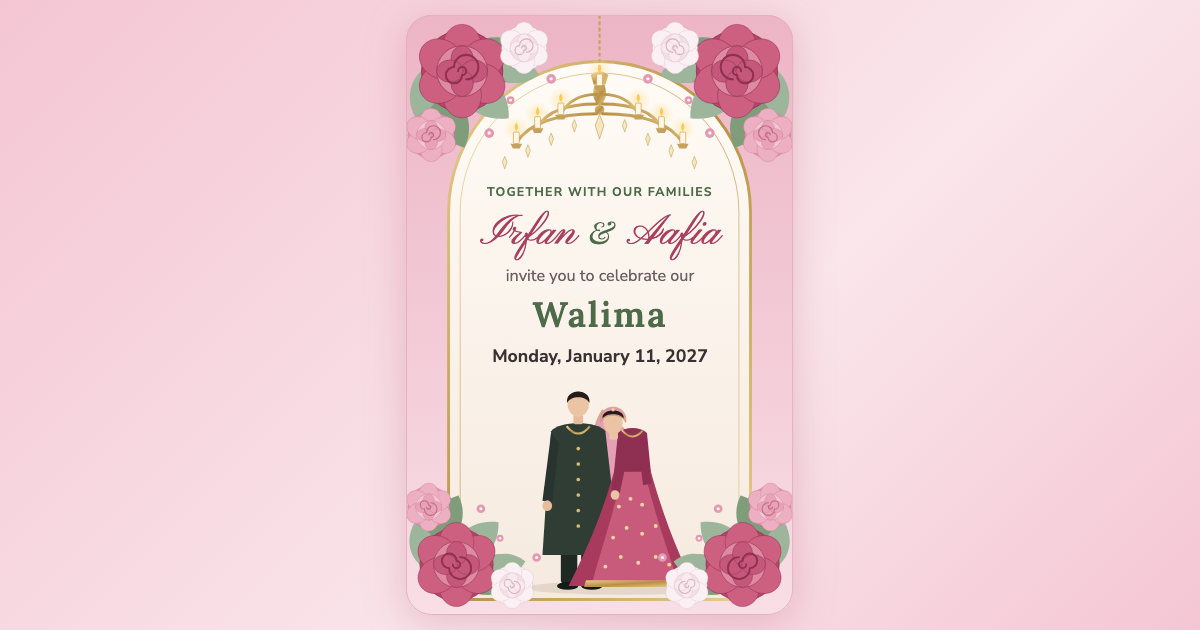
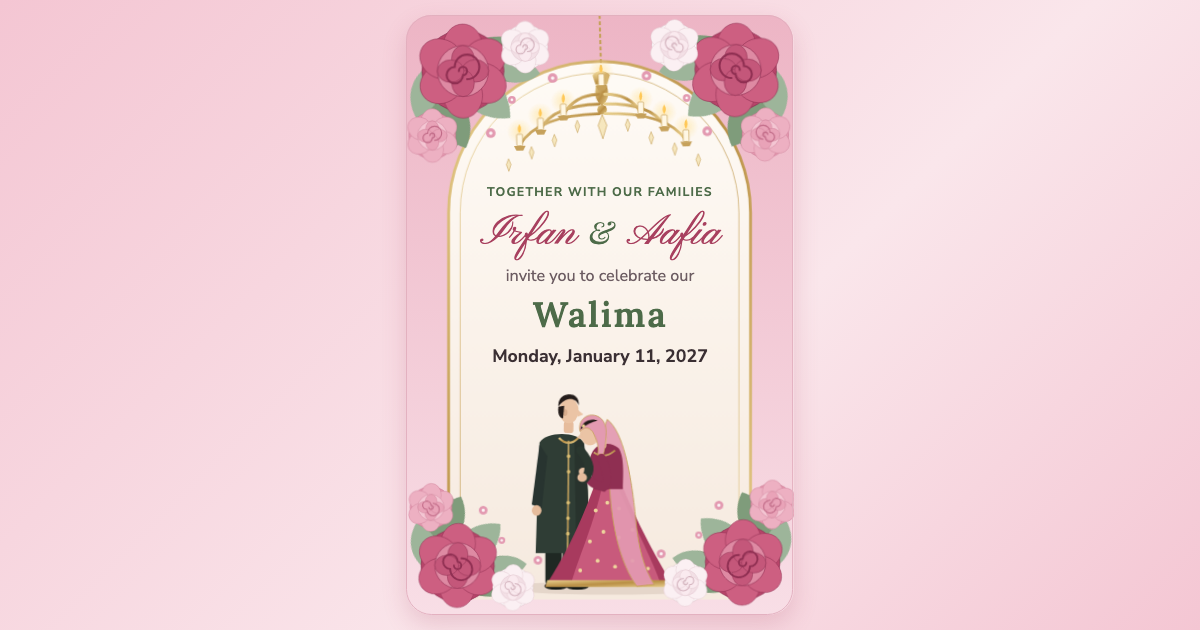
Couple pose and lighter animation

Changed region(s): [[0.3392, 0.6032, 0.6783, 0.9651], [0.3392, 0.0302, 0.6783, 0.2714], [0.4317, 0.4825, 0.555, 0.5127]]

diff --git a/index.html b/index.html
@@ -18,7 +18,7 @@
   <link rel="preconnect" href="https://fonts.googleapis.com">
   <link rel="preconnect" href="https://fonts.gstatic.com" crossorigin>
   <link href="https://fonts.googleapis.com/css2?family=Lora:wght@500;600&family=Nunito+Sans:wght@400;600;700&family=Pinyon+Script&family=Playfair+Display:ital@1&display=swap" rel="stylesheet">
-  <link rel="stylesheet" href="style.css?v=3">
+  <link rel="stylesheet" href="style.css?v=4">
 </head>
 <body>
   <header class="hero">
@@ -121,50 +121,56 @@
 <path class="crystal" d="M74 134 l-2.4 6 l2.4 7 l2.4 -7z" fill="#F6E7BE" stroke="#C6A15B" stroke-width=".6" style="--d:2.02s"/>
 <path class="crystal" d="M98 146 l-2.4 6 l2.4 7 l2.4 -7z" fill="#F6E7BE" stroke="#C6A15B" stroke-width=".6" style="--d:1.73s"/>
 </g></g></g>
-<ellipse class="shadow-in" cx="226" cy="592" rx="104" ry="7" fill="#7A5A48" opacity=".14"/>
-<g class="couple-in"><g class="couple-breathe">
-  <g class="veil-sway"><path d="M203 408 C186 432 184 504 192 574 L216 566 C212 514 214 462 226 428Z" fill="#E39AB1" opacity=".92" stroke="#C6A15B" stroke-width="1"/></g>
+<ellipse class="shadow-in" cx="212" cy="592" rx="112" ry="7" fill="#7A5A48" opacity=".14"/>
+<g class="couple-in"><g transform="translate(-28 0)"><g class="couple-breathe">
   <g class="groom">
-    <rect x="160" y="545" width="17" height="42" rx="3" fill="#1F2823"/>
-    <rect x="181" y="545" width="17" height="42" rx="3" fill="#1F2823"/>
-    <ellipse cx="167" cy="590" rx="11" ry="4" fill="#141A17"/><ellipse cx="192" cy="590" rx="11" ry="4" fill="#141A17"/>
-    <path d="M150 430 C158 419 198 419 206 430 L212 482 L215 558 L141 558 L146 482Z" fill="#2F3D35"/>
-    <path d="M150 432 L141 502 L151 504 L158 442Z" fill="#283430"/>
-    <ellipse cx="146" cy="507" rx="5" ry="5.5" fill="#E6BC9C"/>
-    <line x1="178" y1="434" x2="178" y2="558" stroke="url(#goldG)" stroke-width="1.6"/>
-    <g fill="#D9BC72"><circle cx="178" cy="448" r="1.9"/><circle cx="178" cy="464" r="1.9"/><circle cx="178" cy="480" r="1.9"/><circle cx="178" cy="496" r="1.9"/><circle cx="178" cy="512" r="1.9"/><circle cx="178" cy="528" r="1.9"/></g>
-    <path d="M166 425 Q178 440 190 425" fill="none" stroke="url(#goldG)" stroke-width="2.2"/>
+    <rect x="172" y="548" width="17" height="40" rx="3" fill="#1F2823"/>
+    <rect x="190" y="548" width="17" height="40" rx="3" fill="#1F2823"/>
+    <ellipse cx="183" cy="590" rx="12" ry="4" fill="#141A17"/><ellipse cx="205" cy="590" rx="12" ry="4" fill="#141A17"/>
+    <path d="M166 442 C172 430 206 430 212 442 L216 492 L218 556 L162 556 L164 492Z" fill="#2F3D35"/>
+    <path d="M202 436 L212 442 L216 492 L218 556 L204 556Z" fill="#232C27" opacity=".55"/>
+    <path d="M166 444 L158 506 L168 510 L174 456Z" fill="#283430"/>
+    <ellipse cx="163" cy="512" rx="5" ry="5.5" fill="#E6BC9C"/>
+    <line x1="196" y1="440" x2="195" y2="556" stroke="url(#goldG)" stroke-width="1.6"/>
+    <g fill="#D9BC72"><circle cx="196" cy="456" r="1.9"/><circle cx="196" cy="472" r="1.9"/><circle cx="195.6" cy="504" r="1.9"/><circle cx="195.4" cy="520" r="1.9"/><circle cx="195.2" cy="536" r="1.9"/></g>
+    <path d="M186 437 Q196 447 206 437" fill="none" stroke="url(#goldG)" stroke-width="2.2"/>
     <g class="groom-head">
-      <rect x="173" y="412" width="10" height="11" rx="3" fill="#E6BC9C"/>
-      <ellipse cx="178" cy="402" rx="11" ry="13" fill="#EBC4A5"/>
-      <path d="M166.5 401 C164 385 192 385 189.5 401 C186 393 170 393 166.5 401Z" fill="#241C1A"/>
+      <rect x="191" y="420" width="10" height="12" rx="3" fill="#E6BC9C"/>
+      <ellipse cx="196" cy="409" rx="10" ry="13" fill="#EBC4A5"/>
+      <path d="M205 408 L211 412.5 L205 415Z" fill="#EBC4A5"/>
+      <ellipse cx="192" cy="411" rx="2.5" ry="3.5" fill="#D9AE8E"/>
+      <path d="M185 405 C183 389 207 387 206 403 C203 395 192 394 185 405Z" fill="#241C1A"/>
+      <path d="M185 405 C184 413 187 417 190 417 L191 404Z" fill="#241C1A"/>
     </g>
   </g>
   <g class="bride">
     <g class="skirt-sway">
-      <path d="M216 468 C202 520 182 562 168 590 L298 590 C284 562 266 520 252 468Z" fill="#A83A5E"/>
-      <path d="M224 470 C214 520 198 562 192 590 L282 590 C274 562 258 520 246 470Z" fill="#C85A7C"/>
-      <path d="M186 584 L284 584 L286 591 L184 591Z" fill="url(#goldG)"/>
+      <path d="M222 488 C206 532 188 566 172 590 L304 590 C290 566 270 532 252 488Z" fill="#A83A5E"/>
+      <path d="M230 490 C220 532 204 566 198 590 L292 590 C284 566 266 532 248 490Z" fill="#C85A7C"/>
+      <path d="M174 584 L302 584 L304 591 L172 591Z" fill="url(#goldG)"/>
       <g fill="#F1DC9F" opacity=".95">
-        <circle cx="232" cy="500" r="2"/><circle cx="244" cy="506" r="2"/><circle cx="220" cy="508" r="2"/>
-        <circle cx="228" cy="530" r="2"/><circle cx="244" cy="536" r="2"/><circle cx="214" cy="540" r="2"/><circle cx="258" cy="528" r="2"/>
-        <circle cx="222" cy="560" r="2"/><circle cx="240" cy="566" r="2"/><circle cx="258" cy="560" r="2"/><circle cx="206" cy="570" r="2"/><circle cx="272" cy="568" r="2"/>
+        <circle cx="236" cy="504" r="2"/><circle cx="248" cy="510" r="2"/><circle cx="224" cy="512" r="2"/>
+        <circle cx="232" cy="534" r="2"/><circle cx="248" cy="540" r="2"/><circle cx="218" cy="544" r="2"/><circle cx="262" cy="532" r="2"/>
+        <circle cx="226" cy="564" r="2"/><circle cx="244" cy="570" r="2"/><circle cx="262" cy="564" r="2"/><circle cx="208" cy="574" r="2"/><circle cx="278" cy="572" r="2"/>
       </g>
     </g>
-    <path d="M219 432 C226 425 242 425 249 432 L253 472 L215 472Z" fill="#8F2F52"/>
-    <path d="M223 429 Q234 442 245 429" fill="none" stroke="url(#goldG)" stroke-width="2"/>
-    <path d="M246 436 L254 484 L245 486 L240 446Z" fill="#8F2F52"/>
-    <path d="M221 442 L212 490 L221 494 L230 450Z" fill="#8F2F52"/>
-    <ellipse cx="216" cy="496" rx="4.5" ry="5" fill="#EBC4A5"/>
+    <g class="veil-sway"><path d="M236 418 C252 430 260 472 264 522 C266 550 272 572 282 588 L264 590 C248 568 240 532 238 498 C236 470 234 448 230 434Z" fill="#E39AB1" opacity=".92" stroke="#C6A15B" stroke-width="1"/></g>
+    <path d="M230 444 C222 446 216 456 218 468 C219 476 222 482 222 490 L252 490 C252 476 254 458 248 448 C243 443 236 442 230 444Z" fill="#8F2F52"/>
+    <path d="M222 452 Q232 460 244 450" fill="none" stroke="url(#goldG)" stroke-width="1.8"/>
+    <rect x="226" y="436" width="9" height="12" rx="3" fill="#EBC4A5"/>
     <g class="bride-head">
-      <rect x="210" y="430" width="9" height="9" rx="3" fill="#EBC4A5"/>
-      <ellipse cx="214" cy="421" rx="10" ry="12" fill="#EBC4A5"/>
-      <path d="M201 421 C198 400 230 400 227 421 C223 411 205 411 201 421Z" fill="#E39AB1" stroke="#C6A15B" stroke-width=".8"/>
-      <path d="M203 417 C202 406 226 406 225 417 C221 411 207 411 203 417Z" fill="#241C1A"/>
-      <circle cx="214" cy="408" r="1.8" fill="#E8CF8E"/>
+      <ellipse cx="219" cy="432" rx="10" ry="12" fill="#EBC4A5"/>
+      <path d="M210 431 L205.500 435.500 L211 437Z" fill="#EBC4A5"/>
+      <path d="M209 429 C206 408 238 406 236 432 C235 444 233 450 232 454 L226 454 C228 446 226 438 222 430 C218 424 213 425 209 429Z" fill="#E39AB1" stroke="#C6A15B" stroke-width=".8"/>
+      <path d="M209.500 427 C212 418 222 416 228 419 C222 420 215 423 209.500 427Z" fill="#241C1A"/>
+      <circle cx="213" cy="423.500" r="1.7" fill="#E8CF8E"/>
     </g>
+    <path d="M230 458 Q240 482 232 488 Q220 486 212 474" fill="none" stroke="#8F2F52" stroke-width="9" stroke-linecap="round"/>
+    <ellipse cx="211" cy="472" rx="4.500" ry="4.200" fill="#EBC4A5"/>
   </g>
-</g></g>
+  <path d="M208 450 Q224 468 212 480" fill="none" stroke="#2A372F" stroke-width="9" stroke-linecap="round"/>
+  <ellipse cx="210" cy="478" rx="5" ry="4.500" fill="#E6BC9C"/>
+</g></g></g>
 <g transform="translate(39 0)"><g class="petal" style="--t:15.9s;--d:13.7s;--amp:26px"><path transform="rotate(5) scale(0.79)" d="M0 0 C6 -4 14 -2 14 4 C14 10 6 12 0 8 C-3 5 -3 2 0 0Z" fill="#E8A0B5" opacity=".9"/></g></g>
 <g transform="translate(210 0)"><g class="petal" style="--t:10.4s;--d:6.7s;--amp:15px"><path transform="rotate(159) scale(0.98)" d="M0 0 C6 -4 14 -2 14 4 C14 10 6 12 0 8 C-3 5 -3 2 0 0Z" fill="#F2C3D0" opacity=".9"/></g></g>
 <g transform="translate(321 0)"><g class="petal" style="--t:13.1s;--d:10.8s;--amp:27px"><path transform="rotate(100) scale(0.97)" d="M0 0 C6 -4 14 -2 14 4 C14 10 6 12 0 8 C-3 5 -3 2 0 0Z" fill="#FFFFFF" opacity=".9"/></g></g>
@@ -179,10 +185,10 @@
 <g transform="translate(296 0)"><g class="petal" style="--t:12.0s;--d:7.7s;--amp:16px"><path transform="rotate(87) scale(1.05)" d="M0 0 C6 -4 14 -2 14 4 C14 10 6 12 0 8 C-3 5 -3 2 0 0Z" fill="#F2C3D0" opacity=".9"/></g></g>
 <g transform="translate(236 0)"><g class="petal" style="--t:12.2s;--d:9.1s;--amp:24px"><path transform="rotate(312) scale(1.04)" d="M0 0 C6 -4 14 -2 14 4 C14 10 6 12 0 8 C-3 5 -3 2 0 0Z" fill="#FFFFFF" opacity=".9"/></g></g>
 <g transform="translate(88 0)"><g class="petal" style="--t:10.9s;--d:13.2s;--amp:19px"><path transform="rotate(266) scale(0.81)" d="M0 0 C6 -4 14 -2 14 4 C14 10 6 12 0 8 C-3 5 -3 2 0 0Z" fill="#E39AB1" opacity=".9"/></g></g>
-<g transform="translate(206 404)"><g class="heart" style="--d:5.8s;--dx:-14px;--t:4.6s"><path d="M0 4 C0 -2 -9 -3 -9 3 C-9 8 -3 11 0 15 C3 11 9 8 9 3 C9 -3 0 -2 0 4Z" transform="scale(.7)" fill="#E0788F"/></g></g>
-<g transform="translate(222 404)"><g class="heart" style="--d:7.4s;--dx:16px;--t:5.0s"><path d="M0 4 C0 -2 -9 -3 -9 3 C-9 8 -3 11 0 15 C3 11 9 8 9 3 C9 -3 0 -2 0 4Z" transform="scale(.7)" fill="#E0788F"/></g></g>
-<g transform="translate(214 404)"><g class="heart" style="--d:9.2s;--dx:-4px;--t:4.4s"><path d="M0 4 C0 -2 -9 -3 -9 3 C-9 8 -3 11 0 15 C3 11 9 8 9 3 C9 -3 0 -2 0 4Z" transform="scale(.7)" fill="#E0788F"/></g></g>
-<g transform="translate(230 404)"><g class="heart" style="--d:10.6s;--dx:22px;--t:5.2s"><path d="M0 4 C0 -2 -9 -3 -9 3 C-9 8 -3 11 0 15 C3 11 9 8 9 3 C9 -3 0 -2 0 4Z" transform="scale(.7)" fill="#E0788F"/></g></g>
+<g transform="translate(180 404)"><g class="heart" style="--d:5.8s;--dx:-14px;--t:4.6s"><path d="M0 4 C0 -2 -9 -3 -9 3 C-9 8 -3 11 0 15 C3 11 9 8 9 3 C9 -3 0 -2 0 4Z" transform="scale(.7)" fill="#E0788F"/></g></g>
+<g transform="translate(194 404)"><g class="heart" style="--d:7.4s;--dx:16px;--t:5.0s"><path d="M0 4 C0 -2 -9 -3 -9 3 C-9 8 -3 11 0 15 C3 11 9 8 9 3 C9 -3 0 -2 0 4Z" transform="scale(.7)" fill="#E0788F"/></g></g>
+<g transform="translate(186 404)"><g class="heart" style="--d:9.2s;--dx:-4px;--t:4.4s"><path d="M0 4 C0 -2 -9 -3 -9 3 C-9 8 -3 11 0 15 C3 11 9 8 9 3 C9 -3 0 -2 0 4Z" transform="scale(.7)" fill="#E0788F"/></g></g>
+<g transform="translate(200 404)"><g class="heart" style="--d:10.6s;--dx:22px;--t:5.2s"><path d="M0 4 C0 -2 -9 -3 -9 3 C-9 8 -3 11 0 15 C3 11 9 8 9 3 C9 -3 0 -2 0 4Z" transform="scale(.7)" fill="#E0788F"/></g></g>
 <g transform=""><g class="corner-sway" style="--sd:7.85s;--sdel:-1.18s">
 <g transform="translate(52 46) rotate(-4) scale(1.5)"><g class="leaf-grow" style="--d:1.5s"><use href="#leaf" style="fill:#7F9C7B"/></g></g>
 <g transform="translate(40 60) rotate(86) scale(1.5)"><g class="leaf-grow" style="--d:1.57s"><use href="#leaf" style="fill:#7F9C7B"/></g></g>
@@ -302,7 +308,7 @@
     <p class="sign">With love, Irfan <span class="amp">&amp;</span> Aafia</p>
   </footer>
 
-  <script src="config.js?v=3"></script>
-  <script src="app.js?v=3"></script>
+  <script src="config.js?v=4"></script>
+  <script src="app.js?v=4"></script>
 </body>
 </html>

diff --git a/style.css b/style.css
@@ -329,13 +329,13 @@ footer { text-align: center; padding: 30px 20px 56px; }
 @keyframes coupleIn { from { transform: translateY(22px); opacity: 0; } to { transform: none; opacity: 1; } }
 .couple-breathe { transform-origin: 200px 592px; animation: coupleBreathe 4.8s ease-in-out 4.8s infinite; }
 @keyframes coupleBreathe { 0%, 100% { transform: scale(1, 1); } 50% { transform: scale(1.004, 1.01); } }
-.veil-sway { transform-origin: 205px 410px; animation: veilSway 4.2s ease-in-out 4.8s infinite; }
+.veil-sway { transform-origin: 236px 424px; animation: veilSway 4.2s ease-in-out 4.8s infinite; }
 @keyframes veilSway { 0%, 100% { transform: skewX(0) rotate(0); } 33% { transform: skewX(2.4deg) rotate(1deg); } 66% { transform: skewX(-1.6deg) rotate(-.8deg); } }
-.groom-head { transform-origin: 178px 424px; animation: nod 6s ease-in-out 5s infinite; }
+.groom-head { transform-origin: 196px 426px; animation: nod 6s ease-in-out 5s infinite; }
 @keyframes nod { 0%, 100% { transform: rotate(0); } 40% { transform: rotate(2deg); } 70% { transform: rotate(-1deg); } }
-.bride-head { transform-origin: 214px 438px; animation: lean 6.5s ease-in-out 5s infinite; }
+.bride-head { transform-origin: 232px 452px; animation: lean 6.5s ease-in-out 5s infinite; }
 @keyframes lean { 0%, 100% { transform: rotate(0); } 45% { transform: rotate(-3.5deg); } }
-.skirt-sway { transform-origin: 240px 468px; animation: skirt 4.6s ease-in-out 4.8s infinite; }
+.skirt-sway { transform-origin: 236px 488px; animation: skirt 4.6s ease-in-out 4.8s infinite; }
 @keyframes skirt { 0%, 100% { transform: skewX(0); } 50% { transform: skewX(1.2deg); } }
 
 /* petals flutter down, hearts float up */
